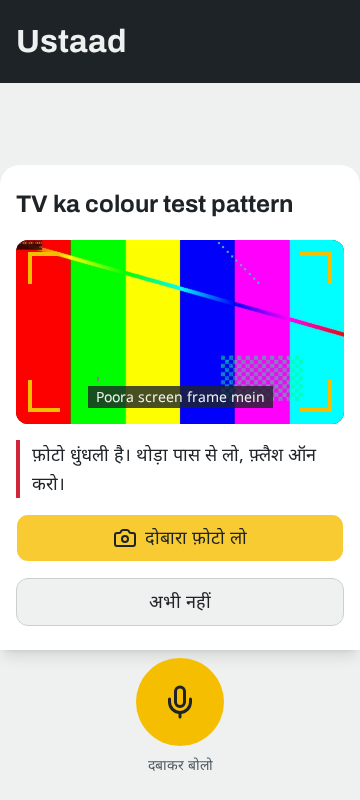
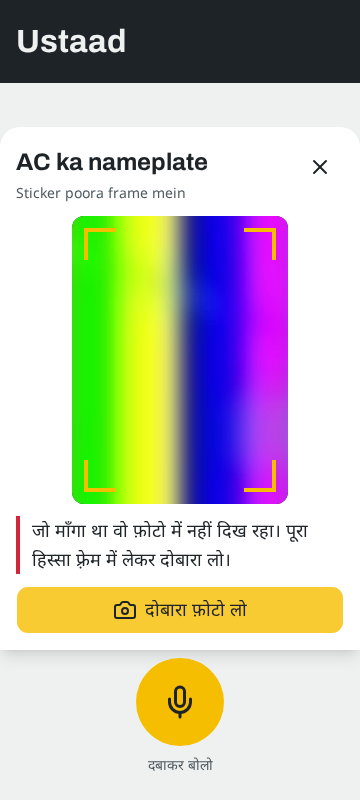
M4: camera sheet fixes from the first phone test
Found on A's Android phone (Oct 15, preview link on dev):
- The sheet stayed on "checking" after a second retake with the same reason: it reset only when the reason text
  changed. It now resets on every server answer (counted in the media reducer).
- No zoom in the in-page camera: a zoom button cycles 1x/2x/4x where the camera supports zoom.
- The viewfinder showed a wide strip of a tall photo: it is portrait now, so what he sees is what is sent.
- The sheet fits above the mic at 360 x 800: close button in the title row, tip under the title, zoom and torch in
  the viewfinder's bottom corners, "send anyway" beside the take button.

diff --git a/web/src/routes/w/CameraSheet.tsx b/web/src/routes/w/CameraSheet.tsx
@@ -1,4 +1,4 @@
-import { Camera, Flashlight } from 'lucide-react'
+import { Camera, Flashlight, X } from 'lucide-react'
 import { useRef, useState } from 'react'
 import { useTranslation } from 'react-i18next'
 
@@ -22,14 +22,15 @@ type Phase = 'ready' | 'dark' | 'blurry' | 'sending' | 'checking' | 'failed'
 // It takes the job's middle area and leaves the mic below it, so he can still talk to Ustaad. A very dark or blurry
 // photo is caught on the phone before any upload; "send anyway" lets him overrule it. The parent keys the sheet by
 // request, so the camera keeps running through retakes; a new retake reason resets the sheet.
-export function CameraSheet({ view: { request, retakeReason }, title, jobId, onSent, onCancel }: Props) {
+export function CameraSheet({ view: { request, retakeReason, answers }, title, jobId, onSent, onCancel }: Props) {
   const { t } = useTranslation()
   const camera = useCamera()
   const fallback = useRef<HTMLInputElement>(null)
   const [phase, setPhase] = useState<Phase>('ready')
-  const [reasonShown, setReasonShown] = useState(retakeReason)
-  if (retakeReason !== reasonShown) {
-    setReasonShown(retakeReason)
+  // Each server answer unlocks the sheet, even a second retake with the same reason (found on the phone, Oct 15).
+  const [answersSeen, setAnswersSeen] = useState(answers)
+  if (answers !== answersSeen) {
+    setAnswersSeen(answers)
     setPhase('ready')
   }
   const held = useRef<Blob | null>(null) // the photo the phone-side check rejected, for "send anyway"
@@ -53,6 +54,8 @@ export function CameraSheet({ view: { request, retakeReason }, title, jobId, onS
   }
 
   const live = camera.state === 'live'
+  // One button cycles the zoom steps the camera supports (1x, 2x, 4x), so it costs no extra row.
+  const nextZoom = camera.zoomSteps[(camera.zoomSteps.indexOf(camera.zoom) + 1) % camera.zoomSteps.length] ?? 1
   const busy = phase === 'sending' || phase === 'checking'
   const message = {
     ready: retakeReason,
@@ -64,36 +67,54 @@ export function CameraSheet({ view: { request, retakeReason }, title, jobId, onS
   }[phase]
   const warn = phase === 'dark' || phase === 'blurry' || phase === 'failed' || (phase === 'ready' && retakeReason)
 
+  const controls = 'size-(--touch) rounded-full bg-graphite/80 text-housing hover:bg-graphite'
+
   return (
     <section
       role="dialog"
       aria-labelledby="camera-title"
-      className="mt-auto flex animate-in flex-col gap-4 rounded-t-xl bg-card px-4 pt-5 pb-6 shadow-lg slide-in-from-bottom motion-reduce:animate-none"
+      className="mt-auto flex animate-in flex-col gap-3 rounded-t-xl bg-card px-4 pt-4 pb-4 shadow-lg slide-in-from-bottom motion-reduce:animate-none"
     >
-      <h2 id="camera-title" className="font-heading text-[length:var(--text-lg)] leading-tight font-bold">
-        {title}
-      </h2>
+      {/* Everything fits above the mic on a 360 x 800 phone, so he can still talk while framing (phone test, Oct 15). */}
+      <div className="flex items-start gap-2">
+        <div className="flex-1">
+          <h2 id="camera-title" className="font-heading text-[length:var(--text-lg)] leading-tight font-bold">
+            {title}
+          </h2>
+          {request.framing_tip && <p className="text-[length:var(--text-sm)] text-muted-foreground">{request.framing_tip}</p>}
+        </div>
+        <Button variant="ghost" size="icon" aria-label={t('camera.notNow')} className="size-(--touch) shrink-0" disabled={busy} onClick={onCancel}>
+          <X aria-hidden className="size-6" />
+        </Button>
+      </div>
 
-      {/* Viewfinder: the live back camera when allowed, else a hint; the framing outline marks what should fill it. */}
-      <div className="relative flex aspect-video items-end justify-center overflow-hidden rounded-lg bg-graphite text-center text-housing">
+      {/* Viewfinder: the live back camera when allowed, else a hint; the framing outline marks what should fill it.
+          Portrait like the photo it takes, so what he sees is what gets sent. Zoom and torch sit in the bottom
+          corners, clear of the middle he is framing. */}
+      <div className="relative mx-auto flex aspect-[3/4] h-[min(300px,36dvh)] items-center justify-center overflow-hidden rounded-lg bg-graphite text-center text-housing">
         <video ref={camera.video} muted playsInline aria-hidden className={live ? 'absolute inset-0 size-full object-cover' : 'hidden'} />
         {['top-3 left-3 border-t-4 border-l-4', 'top-3 right-3 border-t-4 border-r-4', 'bottom-3 left-3 border-b-4 border-l-4', 'right-3 bottom-3 border-r-4 border-b-4'].map(
           (corner) => (
             <span key={corner} aria-hidden className={`absolute size-8 border-primary ${corner}`} />
           ),
         )}
-        {request.framing_tip && (
-          <p className={live ? 'relative mb-4 bg-graphite/80 px-2 text-[length:var(--text-sm)]' : 'relative mb-auto mt-auto px-10 text-[length:var(--text-body)]'}>
-            {request.framing_tip}
-          </p>
+        {camera.zoomSteps.length > 0 && (
+          <Button
+            variant="ghost"
+            aria-label={t('camera.zoom', { n: nextZoom })}
+            className={`absolute bottom-2 left-2 ${controls} text-[length:var(--text-sm)] font-semibold`}
+            onClick={() => void camera.setZoom(nextZoom)}
+          >
+            {camera.zoom}×
+          </Button>
         )}
         {camera.torch !== null && (
           <Button
-            variant="outline"
+            variant="ghost"
             size="icon"
             aria-label={t('camera.flash')}
             aria-pressed={camera.torch}
-            className="absolute top-3 right-14 size-(--touch) bg-graphite/80 text-housing"
+            className={`absolute right-2 bottom-2 ${controls} ${camera.torch ? 'text-primary' : ''}`}
             onClick={() => void camera.toggleTorch()}
           >
             <Flashlight aria-hidden className="size-6" />
@@ -123,22 +144,21 @@ export function CameraSheet({ view: { request, retakeReason }, title, jobId, onS
           e.target.value = ''
         }}
       />
-      <Button
-        className="h-(--touch) gap-2 text-[length:var(--text-body)]"
-        disabled={busy || camera.state === 'starting'}
-        onClick={() => (live ? void camera.capture().then(take) : fallback.current?.click())}
-      >
-        <Camera aria-hidden className="size-6" />
-        {t(phase === 'ready' && !retakeReason ? 'camera.take' : 'camera.retake')}
-      </Button>
-      {(phase === 'dark' || phase === 'blurry') && (
-        <Button variant="outline" className="h-(--touch) text-[length:var(--text-body)]" onClick={() => void upload(held.current!)}>
-          {t('camera.sendAnyway')}
+      <div className="flex gap-2">
+        <Button
+          className="h-(--touch) flex-1 gap-2 text-[length:var(--text-body)]"
+          disabled={busy || camera.state === 'starting'}
+          onClick={() => (live ? void camera.capture().then(take) : fallback.current?.click())}
+        >
+          <Camera aria-hidden className="size-6" />
+          {t(phase === 'ready' && !retakeReason ? 'camera.take' : 'camera.retake')}
         </Button>
-      )}
-      <Button variant="outline" className="h-(--touch) text-[length:var(--text-body)]" disabled={busy} onClick={onCancel}>
-        {t('camera.notNow')}
-      </Button>
+        {(phase === 'dark' || phase === 'blurry') && (
+          <Button variant="outline" className="h-(--touch) text-[length:var(--text-body)]" onClick={() => void upload(held.current!)}>
+            {t('camera.sendAnyway')}
+          </Button>
+        )}
+      </div>
     </section>
   )
 }

diff --git a/web/src/camera/useCamera.ts b/web/src/camera/useCamera.ts
@@ -3,6 +3,8 @@
 // 'unavailable' (no permission, no camera, old browser) falls back to the phone's own camera app.
 import { useEffect, useRef, useState } from 'react'
 
+const ZOOM_STEPS = [1, 2, 4]
+
 type ImageCaptureLike = { takePhoto(): Promise<Blob> }
 declare const ImageCapture: { new (track: MediaStreamTrack): ImageCaptureLike } | undefined
 
@@ -11,6 +13,9 @@ export function useCamera() {
   const track = useRef<MediaStreamTrack | null>(null)
   const [state, setState] = useState<'starting' | 'live' | 'unavailable'>('starting')
   const [torch, setTorch] = useState<boolean | null>(null) // null: this camera has no torch control
+  // Zoom steps the camera supports (empty: no zoom control). A nameplate high on a wall needs it (phone test, Oct 15).
+  const [zoomSteps, setZoomSteps] = useState<number[]>([])
+  const [zoom, setZoomState] = useState(1)
 
   useEffect(() => {
     let stream: MediaStream | null = null
@@ -21,8 +26,9 @@ export function useCamera() {
         stream = s
         if (stopped) return s.getTracks().forEach((t) => t.stop())
         track.current = s.getVideoTracks()[0]
-        const caps = track.current.getCapabilities?.() as { torch?: boolean } | undefined
+        const caps = track.current.getCapabilities?.() as { torch?: boolean; zoom?: { min: number; max: number } } | undefined
         setTorch(caps?.torch ? false : null)
+        if (caps?.zoom && caps.zoom.max > 1) setZoomSteps(ZOOM_STEPS.filter((z) => z >= caps.zoom!.min && z <= caps.zoom!.max))
         video.current!.srcObject = s
         await video.current!.play()
         setState('live')
@@ -38,6 +44,12 @@ export function useCamera() {
     video,
     state,
     torch,
+    zoomSteps,
+    zoom,
+    async setZoom(level: number) {
+      await track.current?.applyConstraints({ advanced: [{ zoom: level } as MediaTrackConstraintSet] })
+      setZoomState(level)
+    },
     async toggleTorch() {
       const on = !torch
       await track.current?.applyConstraints({ advanced: [{ torch: on } as MediaTrackConstraintSet] })

diff --git a/web/src/audio/media.ts b/web/src/audio/media.ts
@@ -1,17 +1,18 @@
 // What the camera sheet shows (BUILD-GUIDE T17): the open media request and, after a poor photo, why to retake.
-// A retake stays on the same request ID; a result with no retake reason closes the sheet.
+// A retake stays on the same request ID; a result with no retake reason closes the sheet. `answers` counts the
+// server's answers for the request, so the sheet unlocks on each one, even when two retakes give the same reason.
 import type { ServerFrame } from './liveClient'
 
 type Of<T extends ServerFrame['type']> = Extract<ServerFrame, { type: T }>
 
-export type MediaView = { request: Of<'media_request'> | null; retakeReason: string | null }
+export type MediaView = { request: Of<'media_request'> | null; retakeReason: string | null; answers: number }
 
-export const noMedia: MediaView = { request: null, retakeReason: null }
+export const noMedia: MediaView = { request: null, retakeReason: null, answers: 0 }
 
 export function mediaReducer(view: MediaView, frame: ServerFrame): MediaView {
   // After a reconnect the server sends the job's open requests again, so the sheet never waits on a dead request.
   if (frame.type === 'session_ready') return noMedia
-  if (frame.type === 'media_request') return { request: frame, retakeReason: null }
+  if (frame.type === 'media_request') return { request: frame, retakeReason: null, answers: 0 }
   if (frame.type !== 'media_result' || frame.request_id !== view.request?.request_id) return view
-  return frame.retake_reason ? { ...view, retakeReason: frame.retake_reason } : noMedia
+  return frame.retake_reason ? { ...view, retakeReason: frame.retake_reason, answers: view.answers + 1 } : noMedia
 }

diff --git a/web/src/audio/media.test.ts b/web/src/audio/media.test.ts
@@ -24,12 +24,12 @@ const result = (retake_reason: string | null, request_id = 'r_1'): ServerFrame =
 })
 
 test('a media request opens the sheet with no retake reason', () => {
-  expect(mediaReducer(noMedia, request)).toEqual({ request, retakeReason: null })
+  expect(mediaReducer(noMedia, request)).toEqual({ request, retakeReason: null, answers: 0 })
 })
 
 test('a poor photo keeps the sheet open on the same request and shows the reason', () => {
   const view = mediaReducer(mediaReducer(noMedia, request), result('Photo dhundhli hai'))
-  expect(view).toEqual({ request, retakeReason: 'Photo dhundhli hai' })
+  expect(view).toEqual({ request, retakeReason: 'Photo dhundhli hai', answers: 1 })
 })
 
 test('a good photo after a retake closes the sheet', () => {
@@ -46,5 +46,12 @@ test('a new session closes the sheet; the server sends its open request again', 
   const open = mediaReducer(noMedia, request)
   const ready: ServerFrame = { v: 1, type: 'session_ready', session_id: 's_2', live_model: 'm', resumable: true }
   expect(mediaReducer(open, ready)).toEqual(noMedia)
-  expect(mediaReducer(mediaReducer(open, ready), request)).toEqual({ request, retakeReason: null })
+  expect(mediaReducer(mediaReducer(open, ready), request)).toEqual({ request, retakeReason: null, answers: 0 })
+})
+
+test('a second retake with the same reason still counts as a new answer, so the sheet unlocks', () => {
+  const once = mediaReducer(mediaReducer(noMedia, request), result('Photo dhundhli hai'))
+  const twice = mediaReducer(once, result('Photo dhundhli hai'))
+  expect(twice.answers).toBe(once.answers + 1)
+  expect(twice.retakeReason).toBe('Photo dhundhli hai')
 })

diff --git a/docs/STATUS.md b/docs/STATUS.md
@@ -40,6 +40,11 @@ know what already works; humans append one block per day.
   passed, Ustaad called `next_step` only 3/5 (2/5 he said the step from memory, no step card). So the server now
   hands out the next step itself after a pass, through the same gate-checked `next_step`: step card 5/5 within
   0.4 s, Ustaad spoke that step 5/5, and never also called `next_step` (no skipped step, 5/5, two-step plan).
+  First phone test (Oct 15, A's Android, office AC, preview link on dev): the sheet locked on "checking" after two
+  retakes with the same reason (fixed: every server answer unlocks it); no zoom in the in-page camera (added 1x/2x/4x
+  where the camera supports it); the viewfinder was a wide strip of a tall photo (now portrait, so what he sees is
+  sent); the sheet now fits above the mic at 360 x 800. Phone-side sharpness on two real photos: blurred 6.3, sharp
+  683 (threshold 15).
   Found and fixed: `read_photo` (T16) closed its Gemini client mid-call, so no gate photo could pass on dev.
   The local API cannot sign upload URLs with a user login (it needs the runtime service account).
 - Memory Bank: empty Agent Engine `8060748716522340352` in `us-central1` (`AGENT_ENGINE_ID`)
